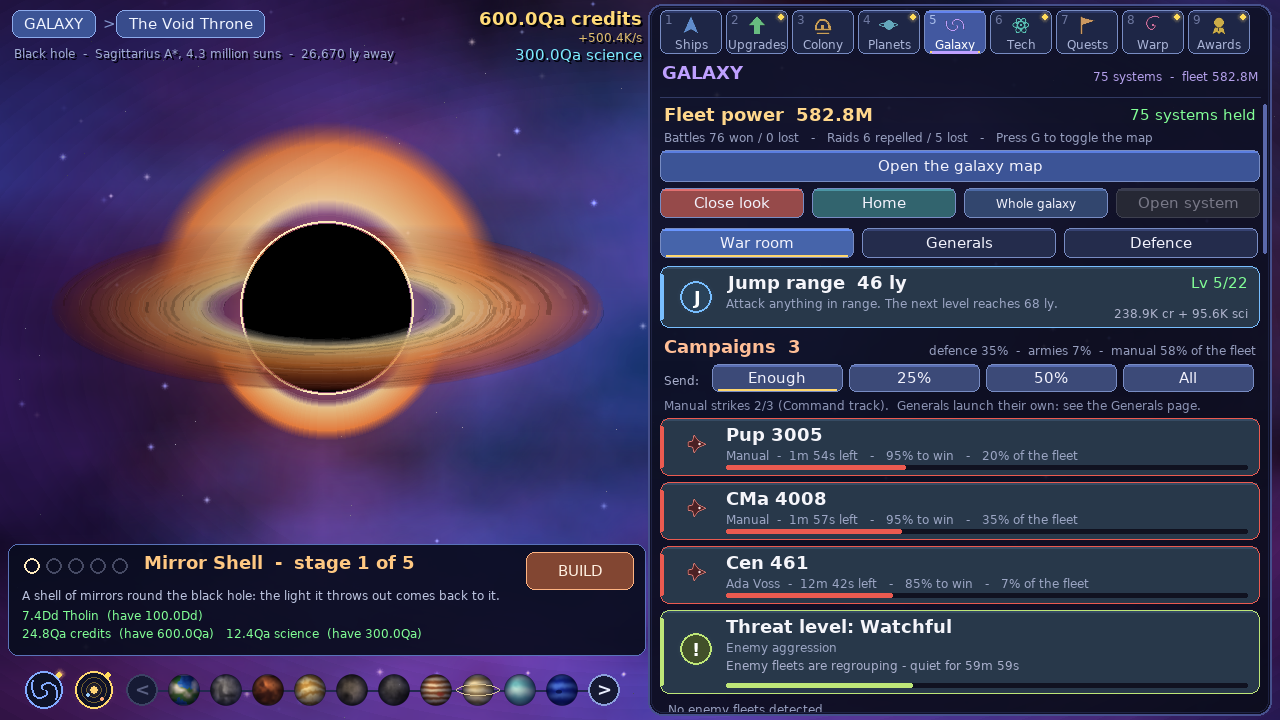
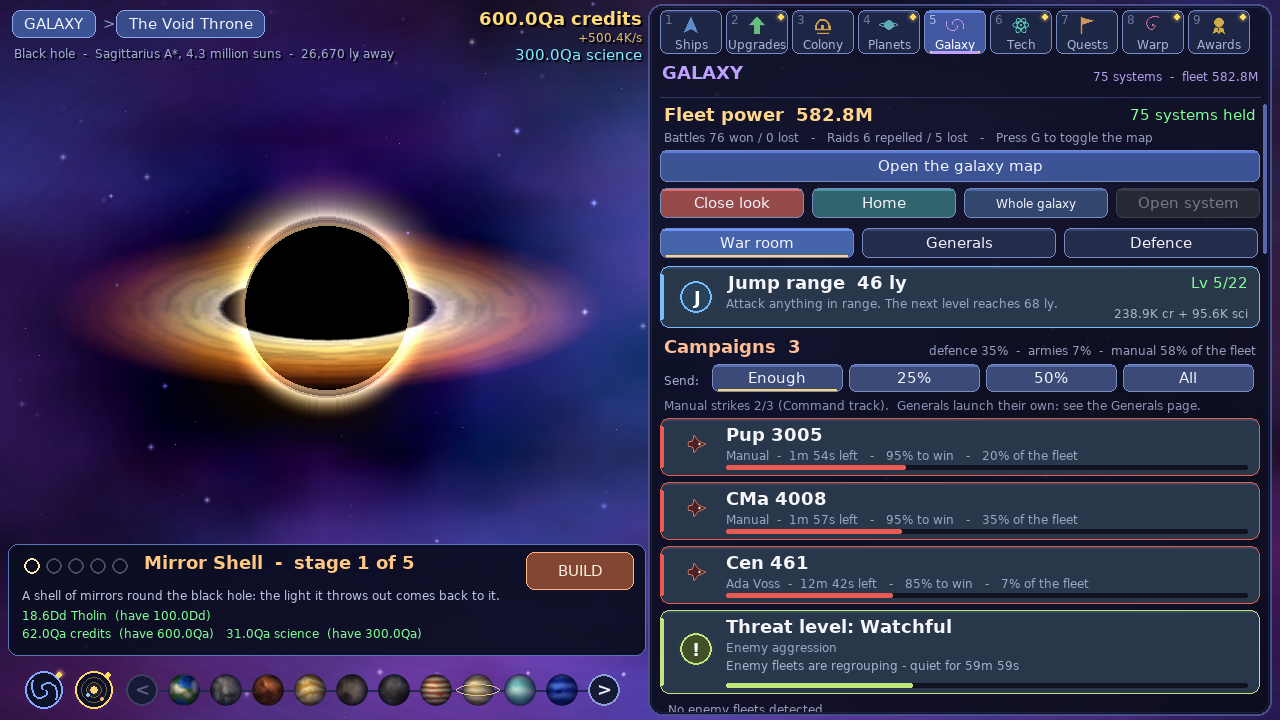
A cleaner black hole: light added over a darkened sky, the rings go behind the hole, no hard seams
The disk is built as light on black and added to the picture (it glows instead
of looking muddy), the sky is darkened round the hole so it stands out, the
bent light hugs the edge instead of a big orange blob, the near side of the
disk is brighter without a seam, the rings round the hole pass behind it and the
bomb's beams stop at its edge. New screenshots.

Changed region(s): [[0.0625, 0.0917, 0.4688, 0.7639], [0.0, 0.825, 0.1562, 0.8861], [0.1562, 0.8556, 0.1875, 0.8861]]

diff --git a/holeview.py b/holeview.py
@@ -20,9 +20,10 @@ SHELL = 3.15                           # the mirror shell round everything
 
 
 # ------------------------------------------------------------------ pictures (made once per size)
+# The light is built on black and added to the picture (BLEND_ADD): it glows over the sky and over the hole's black disk alike.
 def _disk_color(t):
     """The colour of the disk at t (0 at the inner edge, 1 at the outer): white-hot, yellow, orange, deep red."""
-    stops = [(0.0, (255, 250, 235)), (0.18, (255, 215, 140)), (0.5, (255, 140, 60)), (1.0, (150, 38, 22))]
+    stops = [(0.0, (255, 250, 228)), (0.2, (255, 224, 128)), (0.55, (255, 140, 40)), (1.0, (170, 40, 18))]
     for (a, ca), (b, cb) in zip(stops, stops[1:]):
         if t <= b:
             return lerp_c(ca, cb, (t - a) / (b - a))
@@ -30,53 +31,62 @@ def _disk_color(t):
 
 
 def disk_picture(R):
-    """The accretion disk seen from above: a ring of hot gas with streaks in it, brighter on the side that turns towards us."""
+    """The accretion disk seen from above: a ring of hot gas, white at its inner edge and red at its outer one, with darker streaks
+    in it, brighter on the side that turns towards us."""
     D = int(2 * DISK_OUT * R)
-    pic = pygame.Surface((D, D), pygame.SRCALPHA)
+    pic = pygame.Surface((D, D))
     c = D // 2
     r_in, r_out = DISK_IN * R, DISK_OUT * R
     steps = int(r_out - r_in)
     for i in range(steps, 0, -1):
         t = i / steps
-        a = int(255 * min(1.0, t * 7) * (1 - t) ** 0.4) if t < 1 else 0
-        col = _disk_color(t)
-        pygame.draw.circle(pic, (*col, a), (c, c), int(r_in + i), 2)
+        k = min(1.0, t * 30) * (1 - t) ** 0.85
+        pygame.draw.circle(pic, scale_c(_disk_color(t), k), (c, c), int(r_in + i), 2)
     rng = random.Random(77)
-    streaks = pygame.Surface((D, D), pygame.SRCALPHA)
-    for _ in range(420):                                      # streaks of brighter and darker gas
-        t = rng.random() ** 1.4
-        r = r_in + t * (r_out - r_in)
+    mod = pygame.Surface((D, D))
+    mod.fill((255, 255, 255))
+    for _ in range(260):                                      # streaks of thinner gas, blurred so they are soft
+        r = r_in + rng.random() ** 1.3 * (r_out - r_in)
         a0 = rng.random() * math.tau
-        span = rng.uniform(0.15, 0.9)
-        tone = (255, 255, 255, rng.randint(14, 46)) if rng.random() < 0.5 else (0, 0, 0, rng.randint(26, 70))
-        pygame.draw.arc(streaks, tone, (c - r, c - r, 2 * r, 2 * r), a0, a0 + span, rng.choice((1, 1, 2, 3)))
-    pic.blit(streaks, (0, 0))
-    shade = pygame.Surface((D, D), pygame.SRCALPHA)           # the side moving towards us is brighter
-    for x in range(D):
-        v = int(150 + 105 * (x / D))
-        pygame.draw.line(shade, (v, v, v, 255), (x, 0), (x, D))
-    pic.blit(shade, (0, 0), special_flags=pygame.BLEND_RGBA_MULT)
+        v = rng.randint(185, 235)
+        pygame.draw.arc(mod, (v, v, v), (c - r, c - r, 2 * r, 2 * r), a0, a0 + rng.uniform(0.2, 1.0), rng.choice((2, 3, 4)))
+    mod = pygame.transform.smoothscale(pygame.transform.smoothscale(mod, (D // 5, D // 5)), (D, D))
+    pic.blit(mod, (0, 0), special_flags=pygame.BLEND_RGB_MULT)
+    for x in range(D):                                        # the side moving towards us is brighter
+        v = int(175 + 80 * (x / D))
+        pic.fill((v, v, v), (x, 0, 1, D), special_flags=pygame.BLEND_RGB_MULT)
     return pic
 
 
 def arc_picture(R, r0, r1, upper):
-    """The light of the far side of the disk bent over the hole (upper) or under it: half a ring of the disk's colours."""
+    """The light of the far side of the disk bent over the hole (upper) or under it: half a thin ring hugging the edge, white at the
+    hole and red further out, fading away towards the line it is cut at."""
     D = int(2 * r1 * R) + 4
-    pic = pygame.Surface((D, D), pygame.SRCALPHA)
+    pic = pygame.Surface((D, D))
     c = D // 2
     n = int((r1 - r0) * R)
     for i in range(n, 0, -1):
         t = i / n
-        a = int(215 * min(1.0, (1 - t) * 4) * min(1.0, t * 6))
-        pygame.draw.circle(pic, (*_disk_color(0.05 + 0.6 * t), a), (c, c), int(r0 * R + i), 2)
-    cut = pygame.Surface((D, D), pygame.SRCALPHA)
-    cut.fill((255, 255, 255, 0))
-    ramp = max(8, int(0.9 * R))                                 # the arc fades out towards the line it is cut at, it does not end in a block
+        k = 0.7 * min(1.0, t * 14) * (1 - t) ** 1.7
+        pygame.draw.circle(pic, scale_c(_disk_color(0.5 * t), k), (c, c), int(r0 * R + i), 2)
+    cut = pygame.Surface((D, D))
+    ramp = max(8, int(0.8 * R))                                 # it fades out towards the cut: it does not end in a block
     for dy in range(c):
-        a = int(255 * min(1.0, dy / ramp))
-        y = c - 1 - dy if upper else c + dy
-        pygame.draw.line(cut, (255, 255, 255, a), (0, y), (D, y))
-    pic.blit(cut, (0, 0), special_flags=pygame.BLEND_RGBA_MULT)
+        v = int(255 * min(1.0, dy / ramp) ** 1.5)
+        pygame.draw.line(cut, (v, v, v), (0, c - 1 - dy if upper else c + dy), (D, c - 1 - dy if upper else c + dy))
+    pic.blit(cut, (0, 0), special_flags=pygame.BLEND_RGB_MULT)
+    return pic
+
+
+def ring_picture(R):
+    """The thin ring of light at the very edge of the hole, with a soft glow outside it."""
+    S = int(3.4 * R)
+    pic = pygame.Surface((S, S))
+    c = S // 2
+    reach = int(0.4 * R)
+    for dr in range(reach, -1, -1):
+        k = (1 - dr / reach) ** 3.2
+        pygame.draw.circle(pic, scale_c((255, 222, 165), 0.62 * k), (c, c), R + dr, 2)
     return pic
 
 
@@ -84,7 +94,8 @@ def pictures(app, R):
     key = ("hole", R)
     got = app.art.get(key)
     if got is None:
-        got = app.art[key] = dict(disk=disk_picture(R), top=arc_picture(R, 1.02, 2.15, True), bottom=arc_picture(R, 1.02, 1.5, False))
+        got = app.art[key] = dict(disk=disk_picture(R), top=arc_picture(R, 1.0, 1.7, True), bottom=arc_picture(R, 1.0, 1.32, False),
+                                  ring=ring_picture(R))
     return got
 
 
@@ -104,12 +115,12 @@ def draw(app, scr, geo):
     stage = g.bomb
     spin = 0.12 + 0.05 * stage + (0.5 if stage >= 4 else 0)
     pulse = 0.5 + 0.5 * math.sin(t * (2.2 if stage < blackhole.N else 5.0))
-    # light round it
-    gr = int(R * 4.4)
-    scr.blit(glow(gr, scale_c((120, 52, 22), 0.55 + 0.1 * pulse)), (cx - gr, cy - gr), special_flags=ADD)
-    gr = int(R * 2.1)
-    scr.blit(glow(gr, scale_c((255, 150, 70), 0.45)), (cx - gr, cy - gr), special_flags=ADD)
-    # the disk turns: its far half, then the bent light and the horizon, then its near half
+    # the sky is darker round the hole, so the light of the disk stands out; and a faint glow round it
+    gr = int(R * 4.6)
+    scr.blit(glow(gr, (120, 120, 128)), (cx - gr, cy - gr), special_flags=pygame.BLEND_RGB_SUB)
+    gr = int(R * 2.6)
+    scr.blit(glow(gr, scale_c((255, 130, 50), 0.22 + 0.03 * round(pulse, 1))), (cx - gr, cy - gr), special_flags=ADD)
+    # the disk turns: its far half, then the bent light and the hole, then its near half
     disk = pygame.transform.rotate(pics["disk"], -math.degrees(t * spin) % 360)
     side = pics["disk"].get_width()
     crop = disk.subsurface(((disk.get_width() - side) // 2, (disk.get_height() - side) // 2, side, side))
@@ -117,16 +128,26 @@ def draw(app, scr, geo):
     fh = flat.get_height()
     back = pygame.Rect(0, 0, side, fh // 2)
     front = pygame.Rect(0, fh // 2, side, fh - fh // 2)
-    scr.blit(flat, (cx - side // 2, cy - fh // 2), back)
+    scr.blit(flat, (cx - side // 2, cy - fh // 2), back, special_flags=ADD)
     top = pics["top"]
-    scr.blit(top, (cx - top.get_width() // 2, cy - top.get_height() // 2 - int(R * 0.1)))
+    scr.blit(top, (cx - top.get_width() // 2, cy - top.get_height() // 2 - int(R * 0.06)), special_flags=ADD)
+    bomb(app, scr, geo, R, t, stage, pulse, front=False)
     pygame.draw.circle(scr, (0, 0, 0), (cx, cy), R)
-    scr.blit(glow(int(R * 1.5), (60, 30, 12)), (cx - int(R * 1.5), cy - int(R * 1.5)), special_flags=ADD)
-    pygame.draw.circle(scr, (0, 0, 0), (cx, cy), R)
-    pygame.draw.circle(scr, (255, 235, 190), (cx, cy), int(R * 1.045), 2)               # the ring of light just outside the edge
+    ring = pics["ring"]
+    scr.blit(ring, (cx - ring.get_width() // 2, cy - ring.get_height() // 2), special_flags=ADD)
     bottom = pics["bottom"]
-    scr.blit(bottom, (cx - bottom.get_width() // 2, cy - bottom.get_height() // 2 + int(R * 0.1)))
-    scr.blit(flat, (cx - side // 2, cy), front)
+    scr.blit(bottom, (cx - bottom.get_width() // 2, cy - bottom.get_height() // 2 + int(R * 0.06)), special_flags=ADD)
+    scr.blit(flat, (cx - side // 2, cy), front, special_flags=ADD)
+    boost = pics.get(("boost", fh))                              # the near side of the disk is the bright one (it turns towards us):
+    if boost is None:                                            # more light, from nothing at the middle line to a lot at the front
+        ramp = pygame.Surface((side, fh))
+        for y in range(fh):
+            v = int(255 * max(0.0, (y - fh / 2) / (fh / 2)) ** 0.9)
+            pygame.draw.line(ramp, (v, v, v), (0, y), (side, y))
+        pics[("boost", fh)] = boost = ramp
+    extra = flat.copy()
+    extra.blit(boost, (0, 0), special_flags=pygame.BLEND_RGB_MULT)
+    scr.blit(extra, (cx - side // 2, cy - fh // 2), special_flags=ADD)
     bomb(app, scr, geo, R, t, stage, pulse)
 
 
@@ -134,12 +155,17 @@ def _shell_point(cx, cy, R, ang, k=SHELL, flat=0.8):
     return cx + math.cos(ang) * R * k, cy + math.sin(ang) * R * k * flat
 
 
-def bomb(app, scr, geo, R, t, stage, pulse):
-    """The stages built so far, round the hole."""
+def bomb(app, scr, geo, R, t, stage, pulse, front=True):
+    """The stages built so far, round the hole. Called twice: first (front False) for the far halves of the rings that go round the hole,
+    which the hole hides, then (front True) for everything else and the near halves."""
     cx, cy = geo[0], geo[1]
     armed = stage >= blackhole.N
     tone = lerp_c((190, 215, 255), (255, 120, 100), pulse) if armed else (190, 215, 255)
-    if stage >= 1:                                              # the mirror shell: a circle of panels
+    half = (math.pi, math.tau) if front else (0.0, math.pi)          # pygame's arcs run anticlockwise on the screen: 0..pi is the top
+    if stage >= 5 and not front:                                     # the armed bomb glows red behind the hole
+        gr = int(R * (2.7 + 0.4 * pulse))
+        scr.blit(glow(gr, scale_c((255, 70, 60), 0.3)), (cx - gr, cy - gr), special_flags=ADD)
+    if stage >= 1 and front:                                    # the mirror shell: a circle of panels
         sr = R * SHELL
         pygame.draw.ellipse(scr, scale_c(tone, 0.42), (cx - sr, cy - sr * 0.8, 2 * sr, 2 * sr * 0.8), 1)
         n = 44
@@ -151,13 +177,13 @@ def bomb(app, scr, geo, R, t, stage, pulse):
             pygame.draw.polygon(scr, scale_c(tone, 0.55 + 0.45 * glint), pts)
     if stage >= 2:                                              # the superradiant core: a tight ring of light and the lasers on it
         rr = R * 1.55
-        pygame.draw.ellipse(scr, scale_c((140, 255, 245), 0.8), (cx - rr, cy - rr * 0.3, 2 * rr, 2 * rr * 0.3), 2)
+        pygame.draw.arc(scr, scale_c((140, 255, 245), 0.8), (cx - rr, cy - rr * 0.3, 2 * rr, 2 * rr * 0.3), half[0], half[1], 2)
         for i in range(6):
             a = t * 1.4 + i * math.tau / 6
-            x, y = cx + math.cos(a) * rr, cy + math.sin(a) * rr * 0.3
-            scr.blit(glow(10, (90, 220, 210)), (x - 10, y - 10), special_flags=ADD)
-    if stage >= 3:                                              # the containment lattice: pylons from the shell to a hexagon
-        inner = R * 2.25
+            if (math.sin(a) > 0) == front:
+                x, y = cx + math.cos(a) * rr, cy + math.sin(a) * rr * 0.3
+                scr.blit(glow(10, (90, 220, 210)), (x - 10, y - 10), special_flags=ADD)
+    if stage >= 3 and front:                                    # the containment lattice: pylons from the shell to a hexagon
         hexp = []
         for i in range(6):
             a = i * math.tau / 6 + 0.3
@@ -166,24 +192,26 @@ def bomb(app, scr, geo, R, t, stage, pulse):
         pygame.draw.polygon(scr, scale_c(tone, 0.5), hexp, 1)
     if stage >= 4:                                              # the spin-up rings and the jets they throw out of the poles
         for k, rr in enumerate((R * 2.65, R * 2.0)):
-            pygame.draw.ellipse(scr, (255, 200, 120), (cx - rr, cy - rr * 0.22, 2 * rr, 2 * rr * 0.22), 2)
+            pygame.draw.arc(scr, (255, 200, 120), (cx - rr, cy - rr * 0.22, 2 * rr, 2 * rr * 0.22), half[0], half[1], 2)
             for i in range(10):
                 a = (t * (0.9 + 0.4 * k)) * (1 if k == 0 else -1) + i * math.tau / 10
-                x, y = cx + math.cos(a) * rr, cy + math.sin(a) * rr * 0.22
-                pygame.draw.circle(scr, (255, 235, 190), (int(x), int(y)), 2)
-        for sign in (-1, 1):
-            tipy = cy + sign * R * 2.7
-            for w, col in ((6, (90, 60, 30)), (3, (200, 170, 120)), (1, (255, 250, 235))):
-                pygame.draw.polygon(scr, col, [(cx - w, cy + sign * R * 1.02), (cx + w, cy + sign * R * 1.02), (cx, tipy)])
-    if stage >= 5:                                              # the trigger array: eight satellites aimed at the middle
+                if (math.sin(a) > 0) == front:
+                    x, y = cx + math.cos(a) * rr, cy + math.sin(a) * rr * 0.22
+                    pygame.draw.circle(scr, (255, 235, 190), (int(x), int(y)), 2)
+        if front:
+            for sign in (-1, 1):
+                tipy = cy + sign * R * 2.7
+                for w, col in ((6, (90, 60, 30)), (3, (200, 170, 120)), (1, (255, 250, 235))):
+                    pygame.draw.polygon(scr, col, [(cx - w, cy + sign * R * 1.02), (cx + w, cy + sign * R * 1.02), (cx, tipy)])
+    if stage >= 5 and front:                                    # the trigger array: eight satellites aimed at the middle
         for i in range(8):
             a = i * math.tau / 8 + t * 0.12
             x, y = _shell_point(cx, cy, R, a, SHELL + 0.25)
-            pygame.draw.line(scr, scale_c((255, 90, 80), 0.3 + 0.7 * pulse), (x, y), (cx, cy), 1)
+            d = math.hypot(x - cx, y - cy) or 1.0
+            end = (cx + (x - cx) / d * R * 1.04, cy + (y - cy) / d * R * 1.04)             # the beams stop at the edge of the hole
+            pygame.draw.line(scr, scale_c((255, 90, 80), 0.3 + 0.7 * pulse), (x, y), end, 1)
             pygame.draw.rect(scr, (255, 240, 235), (int(x) - 4, int(y) - 4, 8, 8))
             pygame.draw.rect(scr, (255, 100, 90), (int(x) - 4, int(y) - 4, 8, 8), 1)
-        gr = int(R * (2.6 + 0.4 * pulse))
-        scr.blit(glow(gr, scale_c((255, 70, 60), 0.35)), (cx - gr, cy - gr), special_flags=ADD)
 
 
 # ------------------------------------------------------------------ the card
